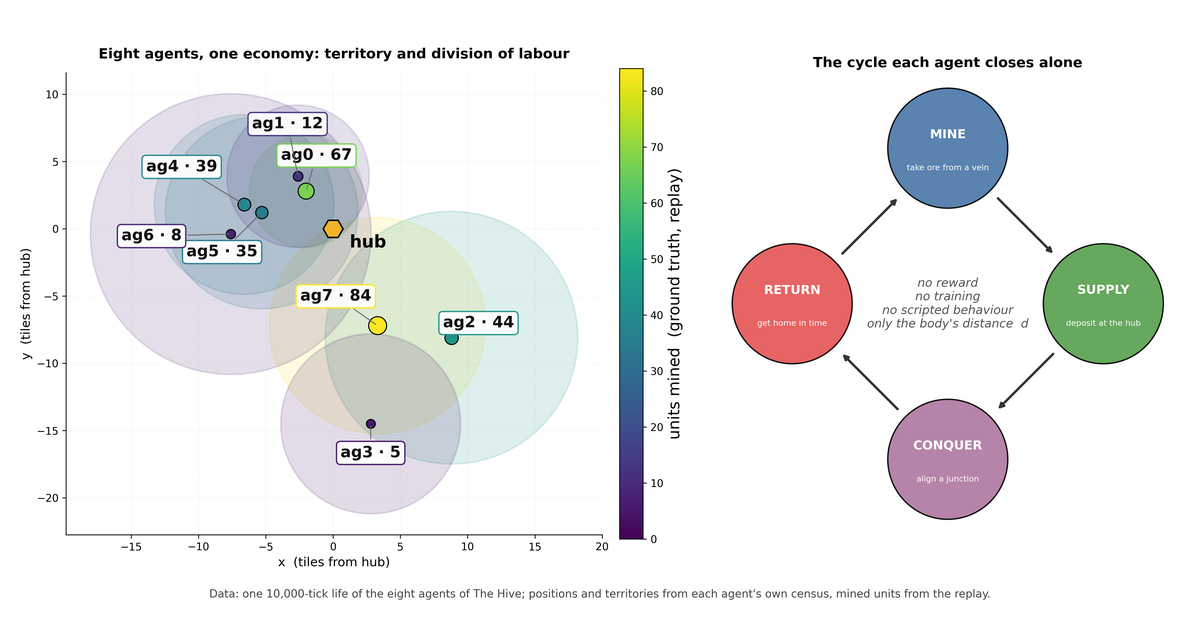
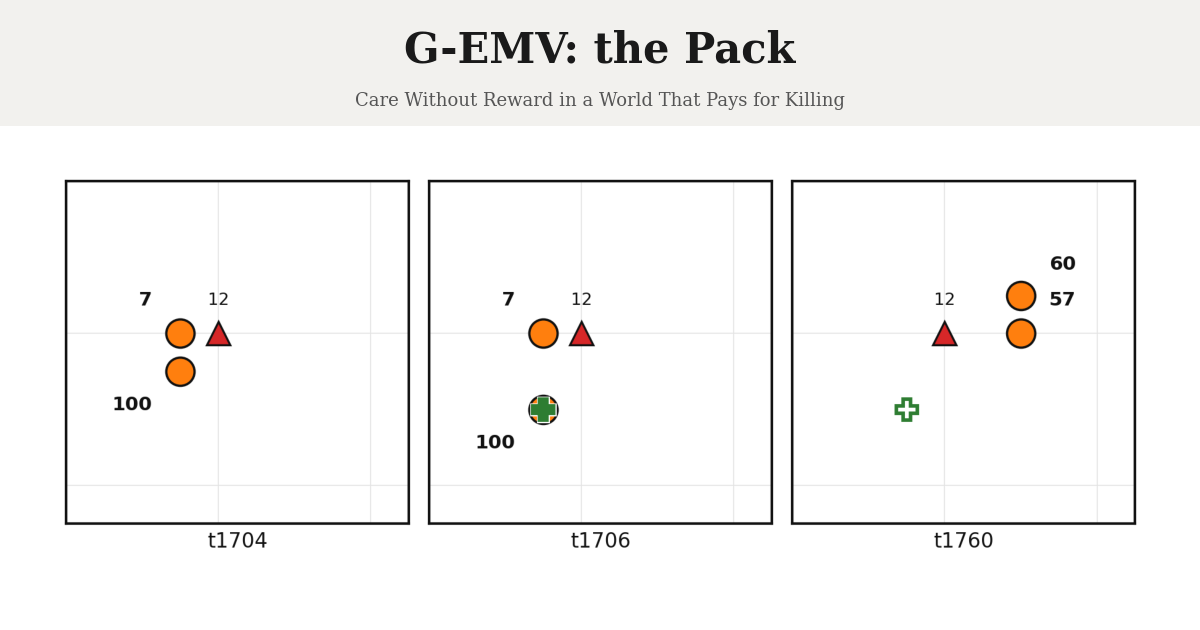
pack: own preview image from figure 3, not the hive's

diff --git a/pack/index.html b/pack/index.html
@@ -13,7 +13,7 @@
 <meta property="og:image" content="https://manelenrico.github.io/gemv-papers/img/pack.png">
 <meta property="og:image:width" content="1200">
 <meta property="og:image:height" content="630">
-<meta property="og:image:alt" content="Map of the eight agents with their territories, and the mine-supply-conquer-return cycle.">
+<meta property="og:image:alt" content="Three moments of one game drawn from the agents' own logs: the healthy sibling reaches the wounded one, drops a bandage on the ground, and the wounded one heals from seven to fifty-seven health.">
 <meta property="og:url" content="https://manelenrico.github.io/gemv-papers/pack/">
 
 <meta name="twitter:card" content="summary_large_image">
@@ -50,7 +50,7 @@
 </nav>
 <h1>G-EMV: the Pack. Care Without Reward in a World That Pays for Killing</h1>
 <p class="lede">Two identical agents, with no reward and no training, play forty games in a world where the last one standing wins: they never struck first, defended the sibling one hundred and four times, and gave away what they carried.</p>
-<img src="../img/pack.png" alt="Map of the eight agents with their territories, and the mine-supply-conquer-return cycle.">
+<img src="../img/pack.png" alt="Three moments of one game drawn from the agents' own logs: the healthy sibling reaches the wounded one, drops a bandage on the ground, and the wounded one heals from seven to fifty-seven health.">
 <p><a class="cta" href="https://doi.org/10.5281/zenodo.22713650">Read on Zenodo</a></p>
 <p class="note">Paper three of three. Concept DOI (all versions): <a href="https://doi.org/10.5281/zenodo.22713649">10.5281/zenodo.22713649</a>.</p>
 <p class="foot"><a href="../">&larr; All papers</a></p>
